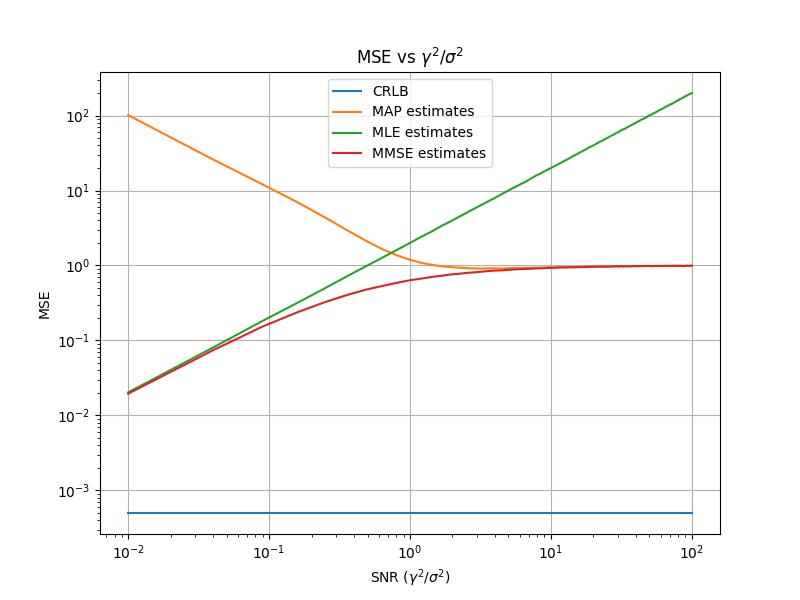
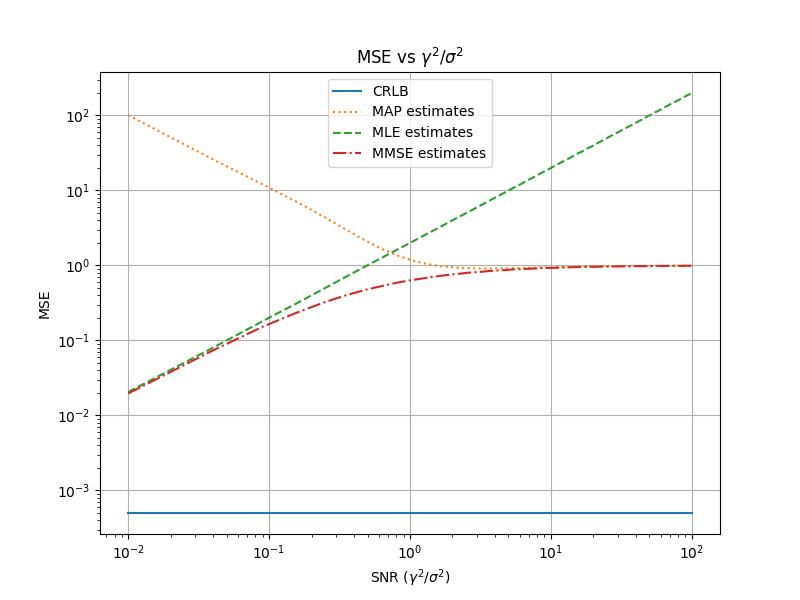
add sims vs data size

diff --git a/simulations.py b/simulations.py
@@ -35,7 +35,7 @@ def mmse_estimate(X, sigma, gamma):
             (0-np.exp(-1/2/(sigma**2)*(X-sigma**2/gamma)**2)) - (X - sigma**2/gamma) * norm.cdf((X-sigma**2/gamma)/sigma))
     return (expr1 + expr2)/const
 
-# Monte Carlo sims
+# Monte Carlo sims - Gamma
 # params
 sigma = 1
 gamma_list = np.arange(0.1, 10.1, 0.1) # gamma from 0.1 to 10 with 0.1 spacing
@@ -43,11 +43,11 @@ N_sims = 200
 N_data = 2000
 
 # runs
-crlb = crlb(sigma, N_data)
+crlb_ = crlb(sigma, N_data)
 mse_mle_ret = []
 mse_map_ret = []
 mse_mmse_ret = []
-print("Running Monte Carlo")
+print("Running Monte Carlo - Gamma")
 for gamma in tqdm.tqdm(gamma_list):
     mse_mle = []
     mse_map = []
@@ -75,10 +75,10 @@ print("Generating plot")
 gamma_arr = np.array(gamma_list)**2/(sigma**2)
 
 fig = plt.figure(figsize=(8,6))
-plt.plot(gamma_arr, np.repeat(crlb, len(gamma_arr)), label="CRLB")
-plt.plot(gamma_arr, mse_map_ret, label="MAP estimates")
-plt.plot(gamma_arr, mse_mle_ret, label="MLE estimates")
-plt.plot(gamma_arr, mse_mmse_ret, label="MMSE estimates")
+plt.plot(gamma_arr, np.repeat(crlb_, len(gamma_arr)), label="CRLB")
+plt.plot(gamma_arr, mse_map_ret, label="MAP estimates", linestyle="dotted")
+plt.plot(gamma_arr, mse_mle_ret, label="MLE estimates", linestyle="dashed")
+plt.plot(gamma_arr, mse_mmse_ret, label="MMSE estimates", linestyle="dashdot")
 plt.legend()
 plt.yscale("log")
 plt.xscale("log")
@@ -87,4 +87,57 @@ plt.ylabel("MSE")
 plt.grid(True)
 plt.title("MSE vs $\gamma^{2}/\sigma^{2}$")
 # plt.show()
-plt.savefig("sim_1.png")
+plt.savefig("sim_1.jpeg")
+
+# Monte Carlo sims - N_data
+# params
+sigma = 1
+N_data_list = np.arange(1, 2000, 10) # gamma from 0.1 to 10 with 0.1 spacing
+N_sims = 200
+gamma = 1
+
+# runs
+mse_mle_ret = []
+mse_map_ret = []
+mse_mmse_ret = []
+crlb_ret = []
+print("Running Monte Carlo - N_data")
+for N_data in tqdm.tqdm(N_data_list):
+    crlb_ret.append(crlb(sigma, N_data))
+    mse_mle = []
+    mse_map = []
+    mse_mmse = []
+
+    for i in range(N_sims):
+        n = np.random.randn(N_data)*sigma
+        s = np.random.laplace(scale=gamma, size=N_data)
+        x = n + s
+
+        s_mle = mle_estimate(x)
+        s_map = map_estimate(x, sigma, gamma)
+        s_mmse = mmse_estimate(x, sigma, gamma)
+
+        mse_mle.append(mse(s_mle, s))
+        mse_map.append(mse(s_map, s))
+        mse_mmse.append(mse(s_mmse, s))
+    
+    mse_mle_ret.append(np.mean(mse_mle))
+    mse_map_ret.append(np.mean(mse_map))
+    mse_mmse_ret.append(np.mean(mse_mmse))
+
+print("Generating plot")
+## Plots
+
+fig = plt.figure(figsize=(8,6))
+plt.plot(N_data_list, crlb_ret, label="CRLB")
+plt.plot(N_data_list, mse_map_ret, label="MAP estimates", linestyle="dotted")
+plt.plot(N_data_list, mse_mle_ret, label="MLE estimates", linestyle="dashed")
+plt.plot(N_data_list, mse_mmse_ret, label="MMSE estimates", linestyle="dashdot")
+plt.legend()
+plt.yscale("log")
+plt.xlabel("# data points")
+plt.ylabel("MSE")
+plt.grid(True)
+plt.title(f"MSE vs #data points - $\gamma$={gamma}")
+# plt.show()
+plt.savefig("sim_2.jpeg")
